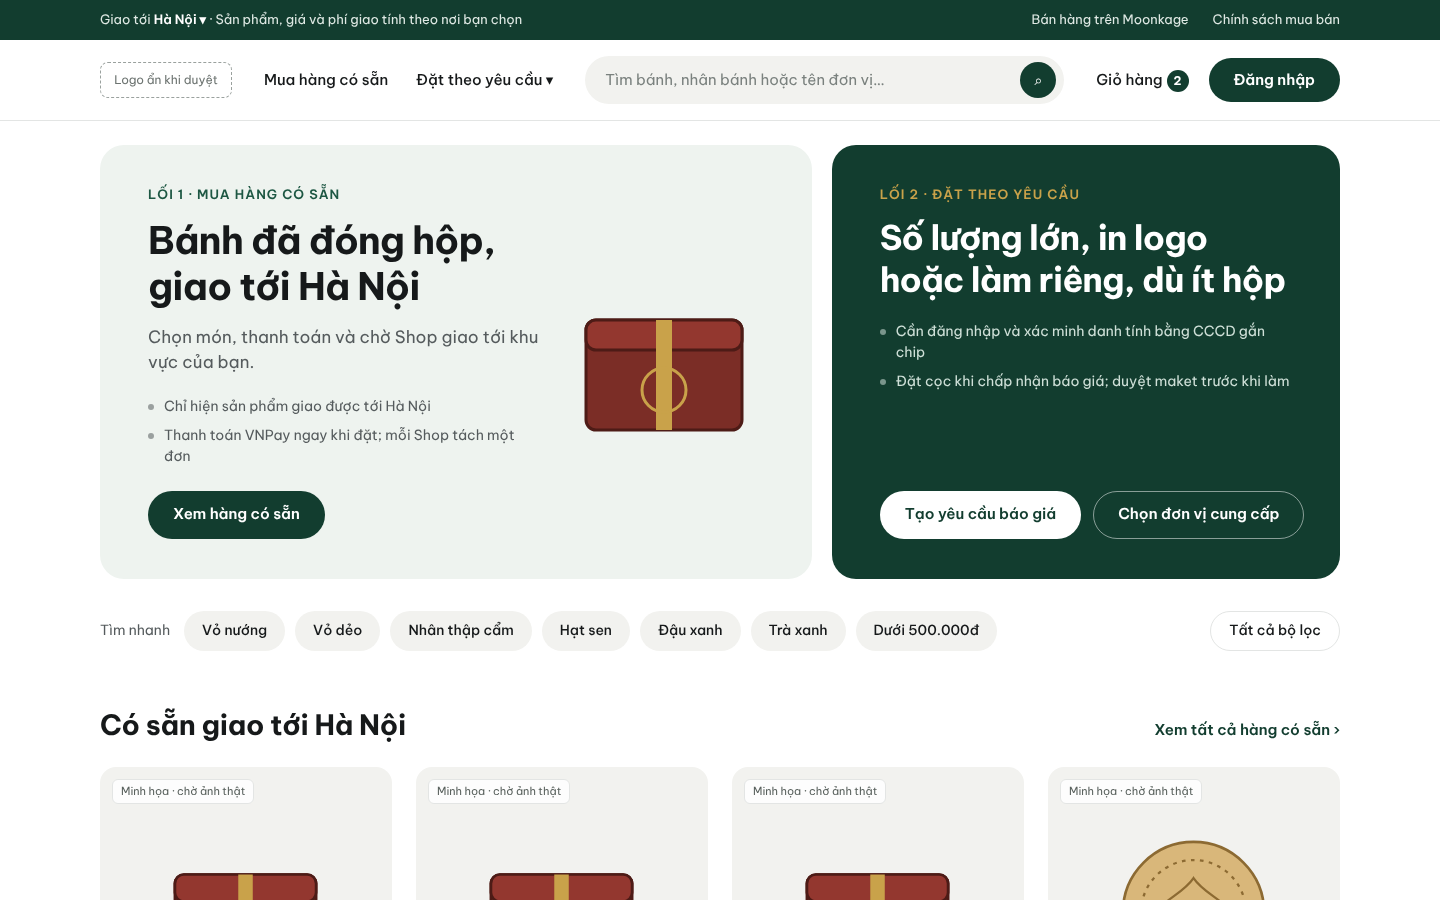
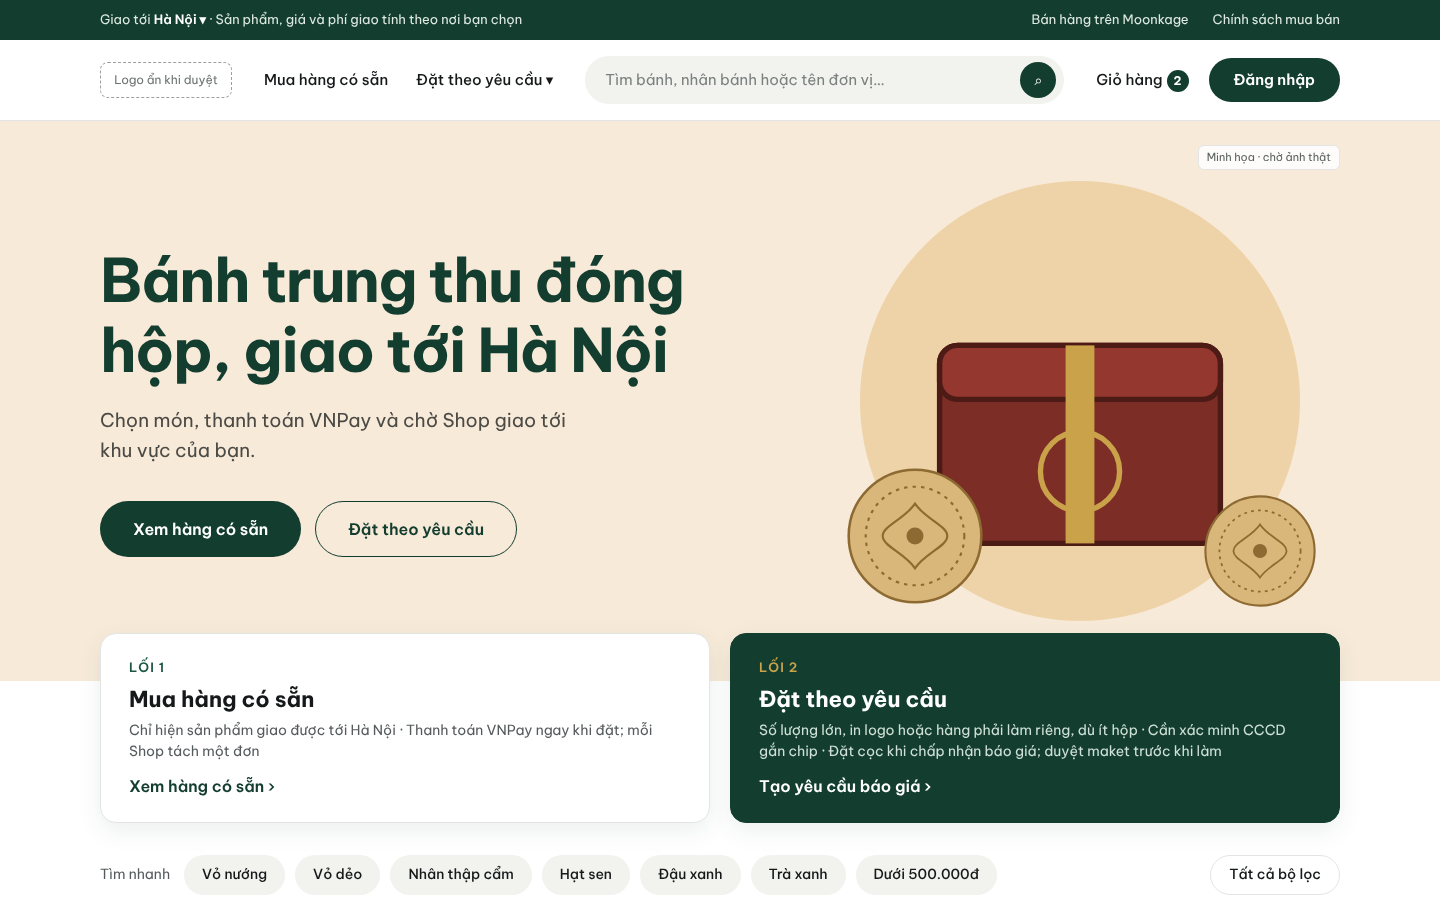
Trang chủ đề xuất: hero lớn tràn ngang kiểu Shopcart
Thay hai khối hero bằng một hero lớn (nền kem tràn ngang, tiêu đề 60px,
hai nút pill, ảnh lớn bên phải); hai thẻ lối vào kèm điều kiện thật đặt
đè mép dưới hero. Cập nhật README.

Claude-Session: https://claude.ai/code/session_014E5hNTQV78ojKwVDe1yNLg

diff --git a/design-explorations-3/home.html b/design-explorations-3/home.html
@@ -81,6 +81,32 @@ a { color: inherit; text-decoration: none; }
 .panel--avail .hero-art { grid-column: 2; grid-row: 1 / span 5; align-self: center; width: 200px; height: 200px; }
 .ill-tag { position: absolute; left: 12px; top: 12px; font-size: 11px; line-height: 1; padding: 6px 8px; border-radius: 6px; background: rgba(255,255,255,.85); color: #59615d; border: 1px solid var(--line); }
 
+/* 2. Hero lớn */
+.bighero { background: #f7ead9; }
+.bighero-in { display: grid; grid-template-columns: 6fr 6fr; align-items: center; min-height: 560px; }
+.bh-text h1 { font-size: 60px; line-height: 70px; font-weight: 700; letter-spacing: -.025em; color: var(--brand); text-wrap: balance; }
+.bh-text p { font-size: 19px; line-height: 30px; color: #4b4a45; margin-top: 20px; max-width: 480px; }
+.bh-cta { display: flex; gap: 14px; margin-top: 36px; }
+.pill--xl { height: 56px; padding: 0 32px; font-size: 16px; }
+.pill--outline { border-color: var(--brand); color: var(--brand); }
+.bh-art { position: relative; height: 560px; }
+.bh-art .ill-tag { left: auto; right: 0; top: 24px; }
+.moon { position: absolute; width: 440px; height: 440px; border-radius: 50%; background: #efd3a8; right: 40px; top: 60px; }
+.bh-box { position: absolute; width: 360px; height: 360px; right: 80px; top: 120px; }
+.bh-cake { position: absolute; width: 170px; height: 170px; }
+.bh-cake.c1 { right: 340px; top: 330px; }
+.bh-cake.c2 { right: 10px; top: 360px; width: 140px; height: 140px; }
+.modes { display: grid; grid-template-columns: 1fr 1fr; gap: 20px; margin-top: -48px; position: relative; }
+.mode { background: #fff; border: 1px solid var(--line); border-radius: var(--r); padding: 24px 28px; display: grid; gap: 6px; box-shadow: 0 8px 24px rgba(18,61,47,.08); }
+.mode strong { font-size: 22px; line-height: 30px; }
+.mode .eyebrow { color: var(--brand-2); }
+.mode-c { font-size: 14px; color: var(--ink-2); }
+.mode .go { font-weight: 600; color: var(--brand); margin-top: 6px; }
+.mode--dark { background: var(--brand); color: #fff; border-color: var(--brand); }
+.mode--dark .eyebrow { color: var(--gold); }
+.mode--dark .mode-c { color: #cfe0d8; }
+.mode--dark .go { color: #fff; }
+
 /* 3. Lọc nhanh dạng chip */
 .chips { display: flex; align-items: center; gap: 10px; margin-top: 32px; flex-wrap: wrap; }
 .chips .k { font-size: 14px; color: var(--ink-2); margin-right: 4px; }
@@ -160,25 +186,31 @@ a { color: inherit; text-decoration: none; }
   <div class="acts"><a class="cart" href="#">Giỏ hàng<b>2</b></a><a class="pill pill--solid" style="height:44px" href="#">Đăng nhập</a></div>
 </div></header>
 
-<main class="wrap">
-  <!-- 2. Hero: hai lối vào -->
-  <section class="hero">
-    <div class="panel panel--avail">
-      <span class="eyebrow">Lối 1 · Mua hàng có sẵn</span>
-      <h1>Bánh đã đóng hộp,<br>giao tới Hà Nội</h1>
-      <p>Chọn món, thanh toán và chờ Shop giao tới khu vực của bạn.</p>
-      <ul class="cond"><li>Chỉ hiện sản phẩm giao được tới Hà Nội</li><li>Thanh toán VNPay ngay khi đặt; mỗi Shop tách một đơn</li></ul>
-      <div class="cta"><a class="pill pill--solid" href="#">Xem hàng có sẵn</a></div>
-      <svg class="hero-art" aria-hidden="true"><use href="#box"/></svg>
-    </div>
-    <div class="panel panel--custom">
-      <span class="eyebrow">Lối 2 · Đặt theo yêu cầu</span>
-      <h2>Số lượng lớn, in logo hoặc làm riêng, dù ít hộp</h2>
-      <ul class="cond"><li>Cần đăng nhập và xác minh danh tính bằng CCCD gắn chip</li><li>Đặt cọc khi chấp nhận báo giá; duyệt maket trước khi làm</li></ul>
-      <div class="cta"><a class="pill pill--light" href="#">Tạo yêu cầu báo giá</a><a class="pill pill--ghost-light" href="#">Chọn đơn vị cung cấp</a></div>
-    </div>
-  </section>
+<!-- 2. Hero lớn tràn ngang, kiểu Shopcart: một thông điệp, nút chính, ảnh lớn bên phải -->
+<section class="bighero"><div class="wrap bighero-in">
+  <div class="bh-text">
+    <h1>Bánh trung thu đóng hộp, giao tới Hà Nội</h1>
+    <p>Chọn món, thanh toán VNPay và chờ Shop giao tới khu vực của bạn.</p>
+    <div class="bh-cta"><a class="pill pill--solid pill--xl" href="#">Xem hàng có sẵn</a><a class="pill pill--outline pill--xl" href="#">Đặt theo yêu cầu</a></div>
+  </div>
+  <div class="bh-art" aria-hidden="true">
+    <span class="ill-tag">Minh họa · chờ ảnh thật</span>
+    <div class="moon"></div>
+    <svg class="bh-box"><use href="#box"/></svg>
+    <svg class="bh-cake c1"><use href="#cake"/></svg>
+    <svg class="bh-cake c2"><use href="#cake"/></svg>
+  </div>
+</div></section>
 
+<!-- 2b. Hai lối vào kèm điều kiện thật (giữ khối 2 của kế hoạch, thu gọn dưới hero) -->
+<div class="wrap">
+  <section class="modes">
+    <a class="mode" href="#"><span class="eyebrow">Lối 1</span><strong>Mua hàng có sẵn</strong><span class="mode-c">Chỉ hiện sản phẩm giao được tới Hà Nội · Thanh toán VNPay ngay khi đặt; mỗi Shop tách một đơn</span><span class="go">Xem hàng có sẵn ›</span></a>
+    <a class="mode mode--dark" href="#"><span class="eyebrow">Lối 2</span><strong>Đặt theo yêu cầu</strong><span class="mode-c">Số lượng lớn, in logo hoặc hàng phải làm riêng, dù ít hộp · Cần xác minh CCCD gắn chip · Đặt cọc khi chấp nhận báo giá; duyệt maket trước khi làm</span><span class="go">Tạo yêu cầu báo giá ›</span></a>
+  </section>
+</div>
+
+<main class="wrap">
   <!-- 3. Lọc nhanh: đúng các bộ lọc M2.0 (vỏ, nhân, giá) -->
   <div class="chips">
     <span class="k">Tìm nhanh</span>

diff --git a/design-explorations-3/README.md b/design-explorations-3/README.md
@@ -28,7 +28,7 @@ Bảng dưới dựa trên trí nhớ, chưa đối chiếu.
 |---|---|---|---|
 | Thanh tiện ích mỏng trên cùng (hotline, khuyến mãi) | Thông tin phụ nhưng luôn đúng, không chiếm chỗ header | **Lấy.** Đặt "Giao tới Hà Nội" và "Bán hàng trên Moonkage" ở đây | Khu vực giao quyết định toàn bộ giá và hàng hiển thị, nên phải luôn thấy |
 | Header: logo, danh mục, ô tìm kiếm bo tròn, giỏ | Ô tìm kiếm là thao tác chính, đặt to giữa header | **Lấy** | Đã khớp wireframe |
-| Hero một banner khuyến mãi lớn ("giảm tới 50%") | Một thông điệp, một nút, ảnh lớn | **Lấy khung, đổi nội dung.** Hero thành hai lối vào | Quyết định đầu tiên của người mua Moonkage là *mua có sẵn hay đặt theo yêu cầu*, không phải khuyến mãi. Đặc tả cấm số liệu không tính từ dữ liệu |
+| Hero lớn tràn ngang: nền màu nhạt, tiêu đề rất to bên trái, nút pill, ảnh lớn bên phải | Một thông điệp chiếm cả màn đầu | **Lấy nguyên khung** (theo yêu cầu của bạn). Tiêu đề 60px, nền kem tràn ngang, ảnh lớn bên phải. Khác demo: hai nút thay vì một (Xem hàng có sẵn / Đặt theo yêu cầu); không có số "giảm %" | Hai lối vào là quyết định đầu tiên của người mua. Đặc tả cấm số liệu không tính từ dữ liệu. Hai thẻ lối vào kèm điều kiện thật nằm đè mép dưới hero |
 | Hàng chip lọc dưới hero | Cho người chưa biết tìm gì một điểm bắt đầu | **Lấy**, chỉ dùng bộ lọc M2.0 có thật (vỏ, nhân, giá) | Rút một bước so với vào M2.0 rồi mới lọc |
 | Thẻ sản phẩm: ảnh trên nền xám nhạt, tên và giá cùng dòng, sao, nút viền "Add to Cart" | Ảnh đồng nền nên lưới gọn dù ảnh khác chất lượng; giá dễ quét | **Lấy** | Ảnh của người bán sẽ không đều; nền khung đồng nhất che bớt chỗ đó |
 | Nút tim (yêu thích) trên ảnh | Lưu để mua sau | **Không lấy** | Đặc tả không có danh sách yêu thích |
@@ -42,7 +42,7 @@ Bảng dưới dựa trên trí nhớ, chưa đối chiếu.
 | | Wireframe | Đề xuất | Được / mất |
 |---|---|---|---|
 | Chọn khu vực | Khối thông báo riêng (chỉ khách) | Nằm trong thanh tiện ích, mọi vai đều thấy | Được: luôn thấy, không tốn một khối. Mất: kém nổi với khách lần đầu |
-| Hai lối vào | Hai thẻ viền ngang nhau | Hai khối hero: Lối 1 nền nhạt rộng 7/12, Lối 2 nền đậm 5/12 | Được: phân biệt hai lối ngay bằng màu. Đánh đổi: Lối 1 được ưu tiên về diện tích (xem Q1) |
+| Hai lối vào | Hai thẻ viền ngang nhau | Hero lớn có hai nút, rồi hai thẻ 6/6 kèm điều kiện thật nằm đè mép dưới hero | Được: màn đầu có điểm nhấn mạnh như demo. Mất: thẻ lối vào xuống sát nếp gấp, sản phẩm rơi hẳn xuống dưới màn đầu |
 | Tìm nhanh | Không có | Chip vỏ, nhân, giá | Thêm một bước tắt |
 | Sản phẩm | Ảnh, tên, đơn vị, sao, giá | Thêm nút "Thêm vào giỏ" | Mua nhanh từ trang chủ. Rủi ro: khách bấm sẽ phải đăng nhập (cổng sẵn có) |
 | Đơn vị cung cấp | Thẻ, hai nút ngang nhau | Một nút chính, "Xem đơn vị ›" là liên kết phụ | Nhãn "Gửi yêu cầu cho [tên]" dài, hai nút ngang bị vỡ hàng |
@@ -51,7 +51,7 @@ Bảng dưới dựa trên trí nhớ, chưa đối chiếu.
 
 ## 4. Câu hỏi cần bạn quyết
 
-- **Q1. Hai lối vào có ngang hàng không?** Đề xuất cho Lối 1 rộng hơn vì đa số lượt vào là mua lẻ. Nếu khách doanh nghiệp quan trọng ngang, chia 6/6. *Khuyến nghị: giữ 7/5 tới khi có số liệu lượt vào.*
+- **Q1. Ảnh hero.** Hero lớn sống nhờ một ảnh chụp đẹp (demo dùng ảnh người mẫu). Ai cung cấp: Moonkage tự chụp, hay lấy ảnh của một Shop? *Khuyến nghị: Moonkage tự chụp một bộ, không dùng ảnh Shop, để hero không quảng cáo riêng cho một người bán.*
 - **Q2. Màu thương hiệu.** Đang mượn cách Shopcart dùng: một màu đậm cùng nền nhạt cùng họ màu (xanh đậm). Token thương hiệu chưa ràng buộc. *Khuyến nghị: giữ cấu trúc "một màu đậm + một nền nhạt", màu cụ thể chờ logo.*
 - **Q3. Thêm khối "Tiền của bạn đi thế nào"** vào kế hoạch (thành 6 khối)? *Khuyến nghị: có. Nó trả lời lo ngại lớn nhất của Lối 2 mà không cần số liệu.*
 - **Q4. Nút "Thêm vào giỏ" trên thẻ sản phẩm** ở trang chủ? *Khuyến nghị: có, theo Shopcart. Bánh trung thu mua theo hộp, ít cần chọn biến thể.*
